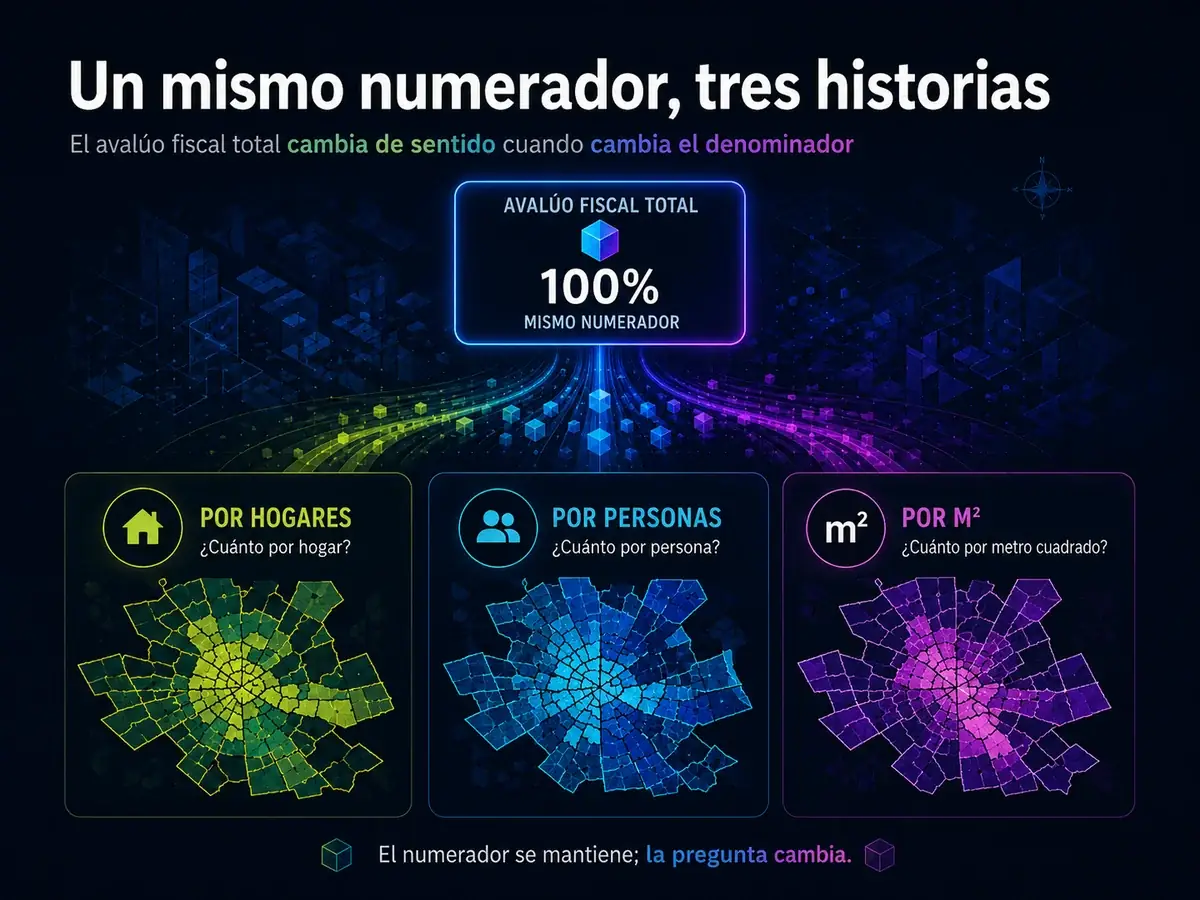
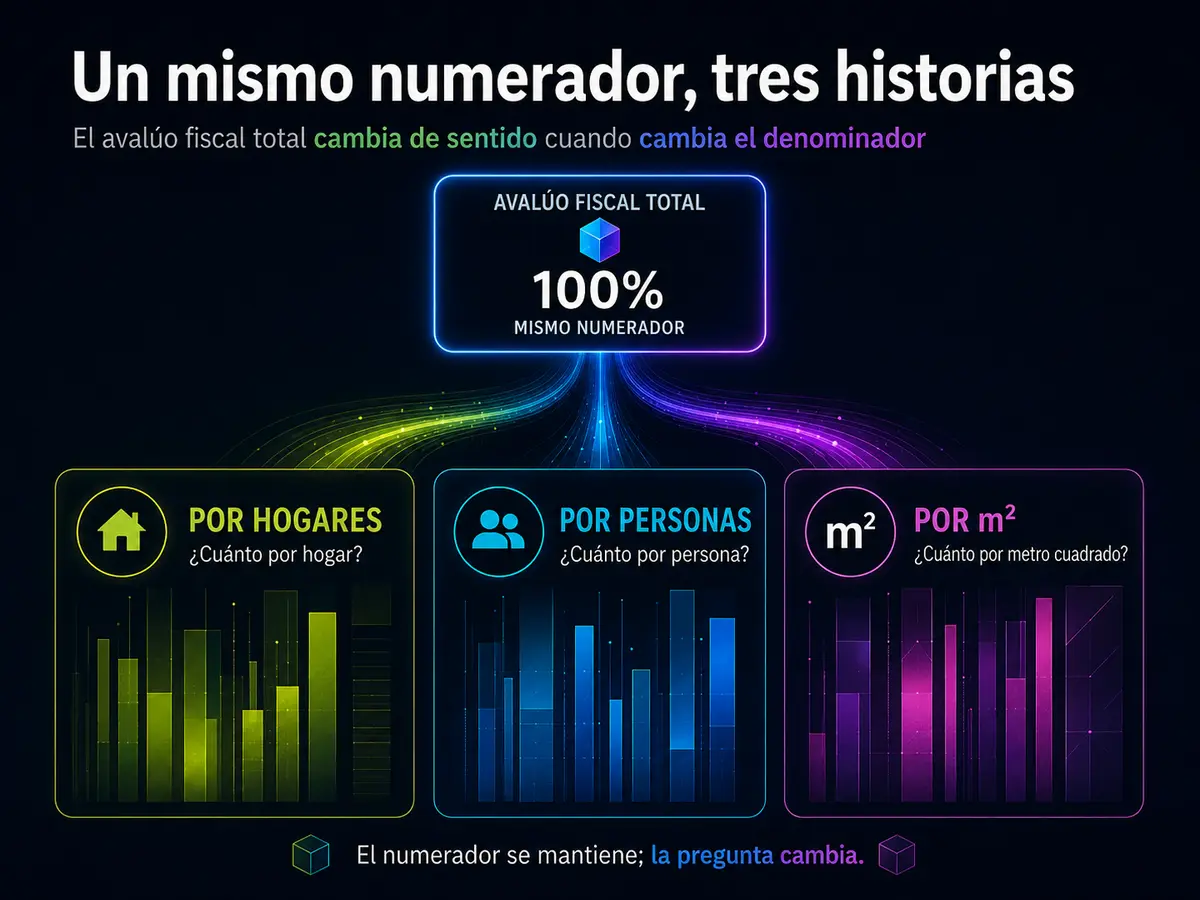
fix(post): imagenes sin minimapas, que restaban precision
El autor regenero las piezas quitando unos minimapas que no eran geometrias
reales. Eran el punto debil de todo el lote: en un post cuyo argumento es que un
mapa bonito no autoriza a inventar geometria, tres coropletas ilustrativas
invitaban justamente a leerlas como resultado. Ahora esos paneles son graficos de
barras, que ilustran el cambio de patron sin fingir territorio.

Se reemplazan los seis derivados publicados: hero, og, teaser y su variante -640,
la figura del numerador y la del pipeline, mas las dos piezas 1080x1350 de redes.
El og conserva el recorte 1672x878+0+31 verificado contra la composicion nueva:
titular completo, los tres paneles y la fila de cifras sin cortar.

El pie del hero deja de advertir sobre minimapas que ya no existen. Los masters
viejos quedan archivados en _reemplazados-2026-08-01/ dentro de recursos/.

La figura bivariada sigue SIN publicarse. Mejoro en dos cosas —se fue el
"CATASTRO" mal escrito y la expansion incorrecta de IGVUST— pero conserva los dos
errores graves: ordena la vulnerabilidad de BAJA (0-0,25) a ALTA (0,75-1,00)
cuando el post define q1 como MAYOR vulnerabilidad, y sus ocho celdas afirman
incidencias que el procesamiento nunca produjo. Queda archivada en _rechazadas/
junto a la version anterior.

Artefacto: 33,67 MB.

diff --git a/_posts/2026-07-26-avaluo-vulnerabilidad-unidad-vecinal.md b/_posts/2026-07-26-avaluo-vulnerabilidad-unidad-vecinal.md
@@ -27,7 +27,7 @@ classes: [avaluo-vulnerabilidad-post]
 
 <figure class="align-center">
   <img src="{{ '/assets/images/avaluo-vulnerabilidad-unidad-vecinal/hero-avaluo-vulnerabilidad-1600x900.webp' | relative_url }}" alt="Un mismo avalúo fiscal de 9,4 millones de predios se divide por hogares, personas y metros cuadrados, y produce tres lecturas territoriales distintas; junto a las cifras 19,9% de unidades vecinales que conservan cuartil y 45,8% que se desplazan dos o más." width="1600" height="900" loading="eager" decoding="async">
-  <figcaption>Apertura conceptual del argumento. Las cifras —9,4 millones de predios únicos, 19,9% que conserva cuartil, 45,8% que se desplaza dos o más— son las del procesamiento y se detallan más abajo. Los tres mapas pequeños son ilustrativos: representan la idea de que el patrón cambia con el denominador, no son geometrías ni resultados del cruce.</figcaption>
+  <figcaption>Apertura conceptual del argumento. Las cifras —9,4 millones de predios únicos, 19,9% que conserva cuartil, 45,8% que se desplaza dos o más— son las del procesamiento y se detallan más abajo. Los tres paneles ilustran la idea de que el patrón cambia con el denominador; no son un resultado del cruce.</figcaption>
 </figure>
 
 Chile mantiene un catastro capaz de seguir millones de predios y, aun así, suele reducir toda la conversación a una cuota trimestral. El dato no nació del entusiasmo estatal por dibujar polígonos: existe porque el impuesto territorial necesita saber **qué hay, dónde está, para qué se usa y cuánto vale fiscalmente**.
